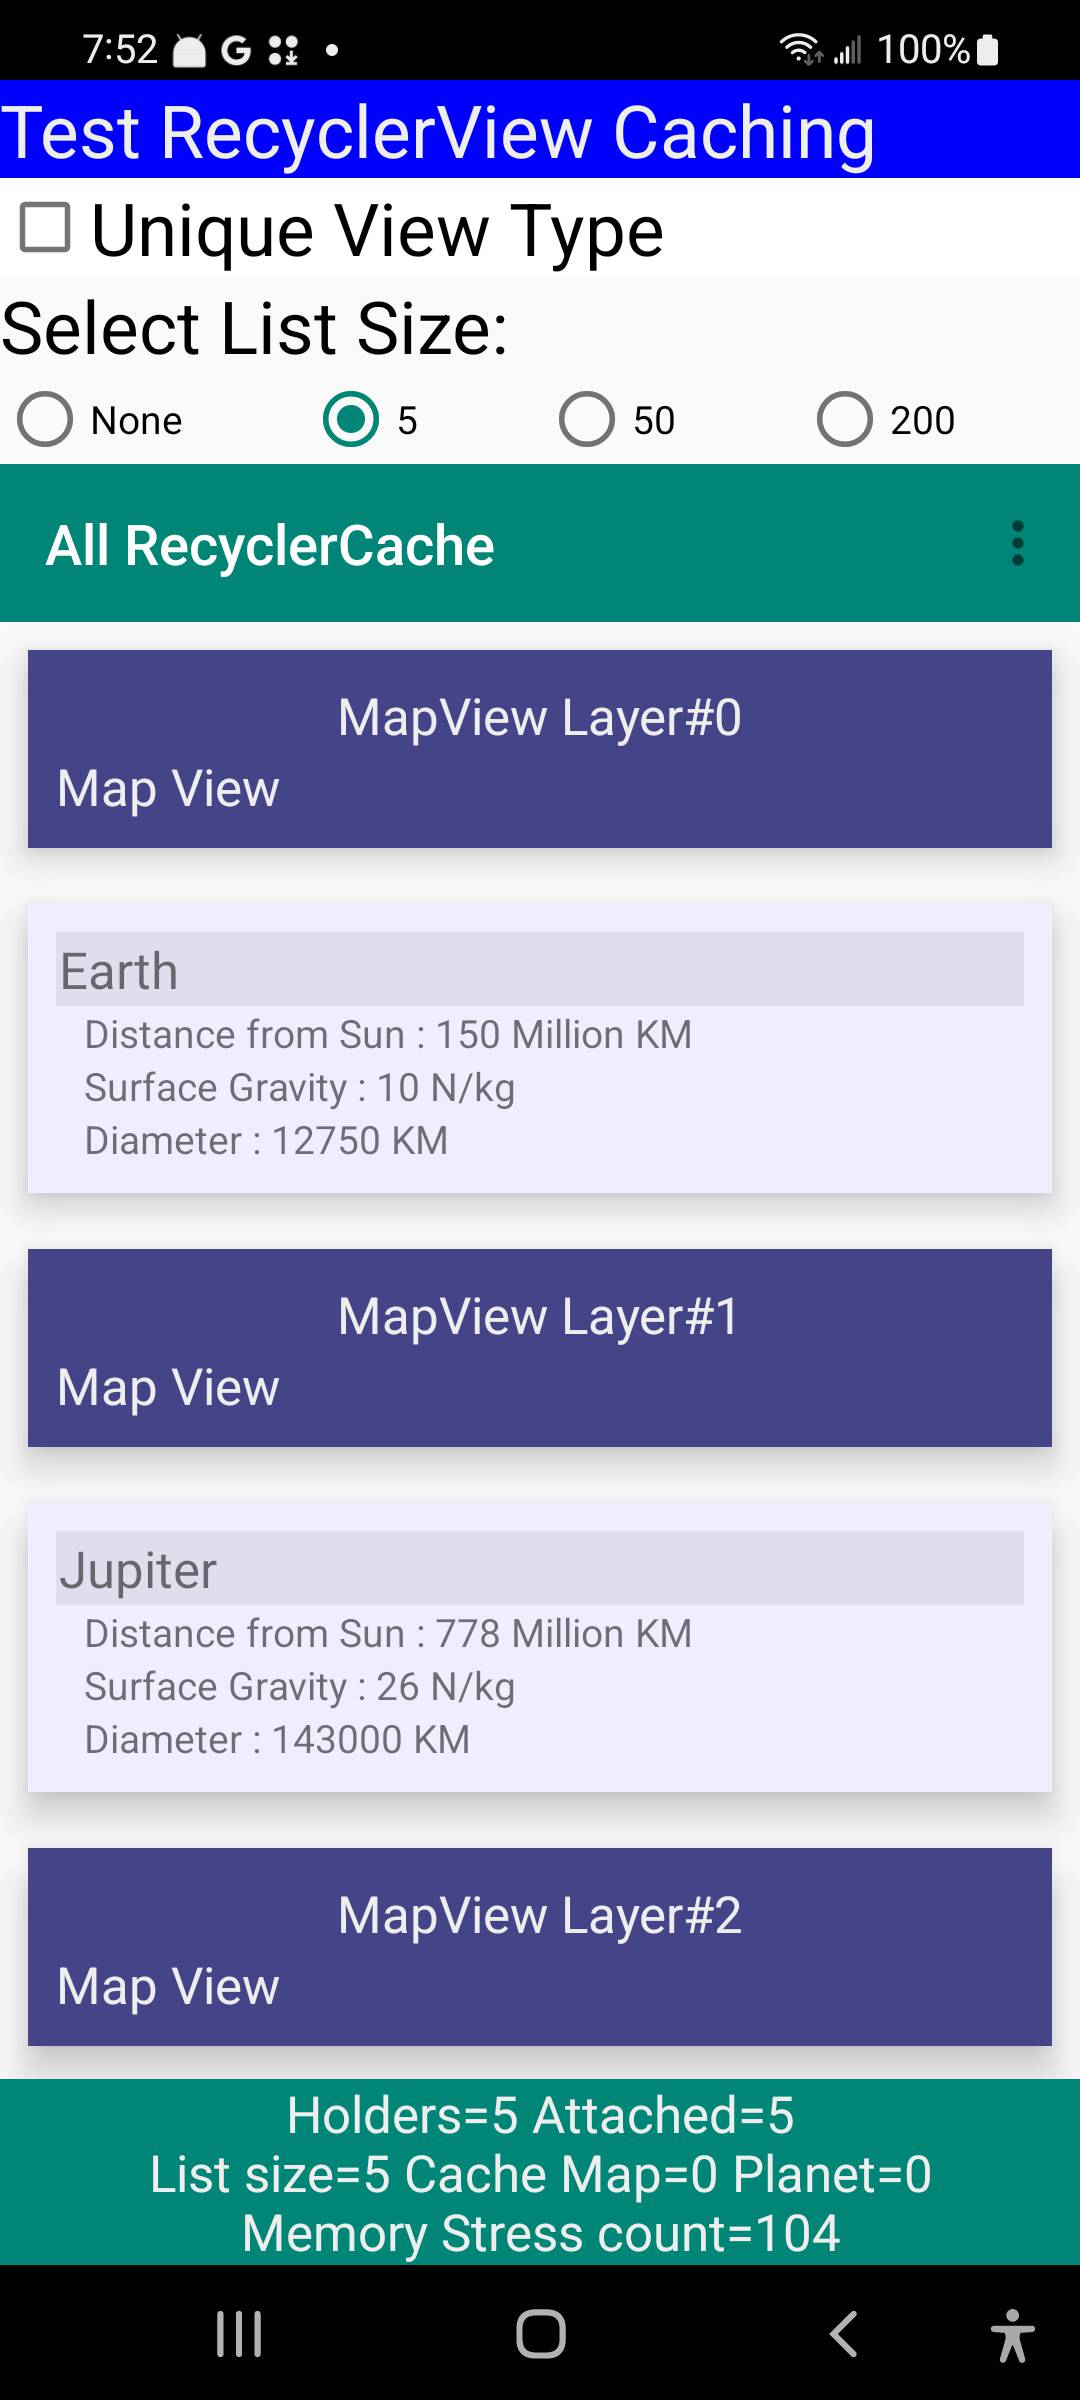
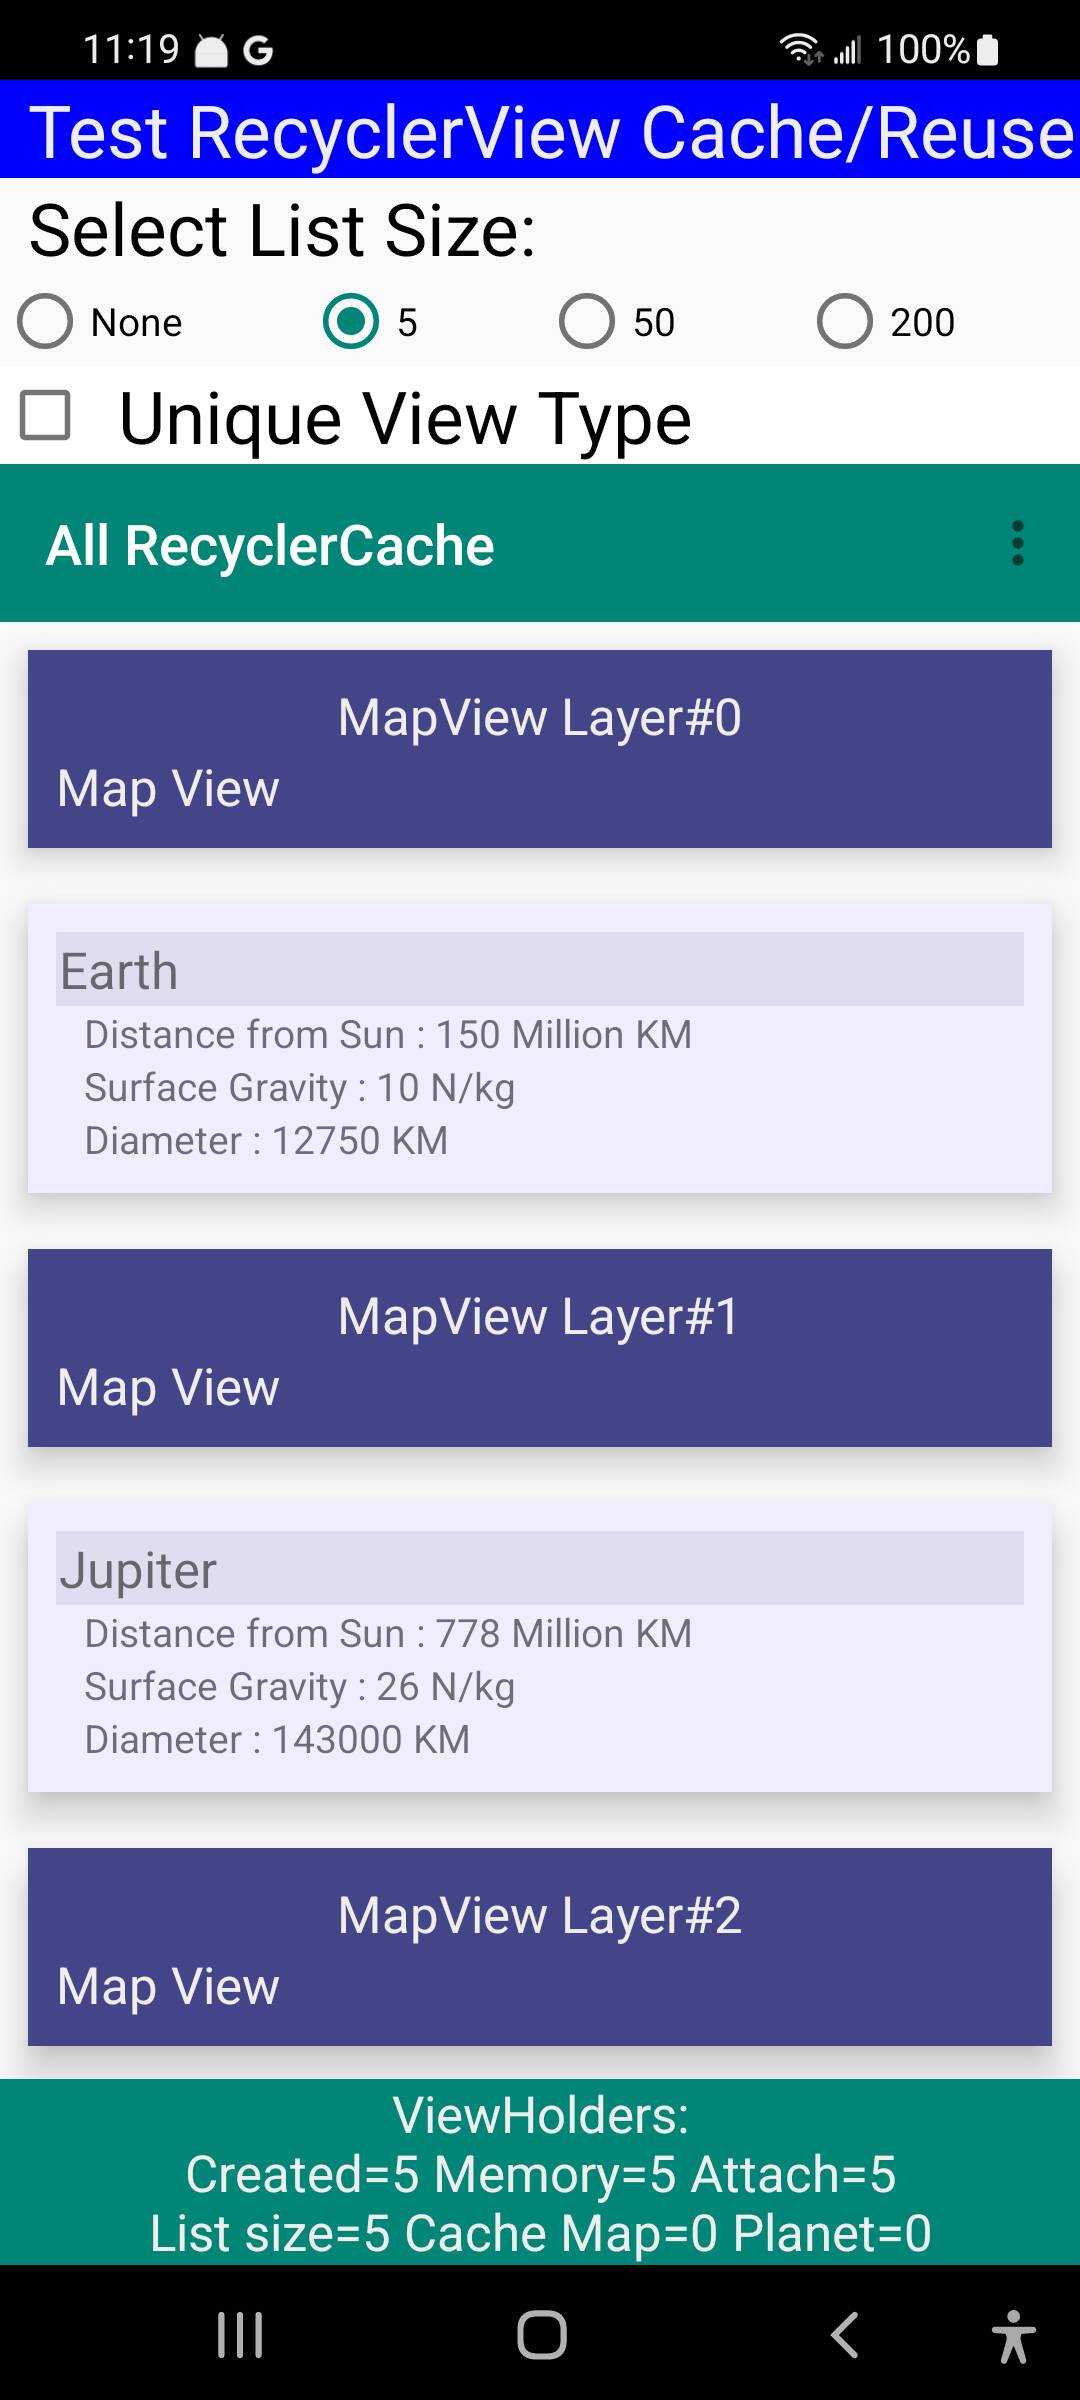
update readme

diff --git a/README.md b/README.md
@@ -30,8 +30,9 @@ Changing the list size causes a new list to be created, adapter to be rebuilt an
 the RecyclerView and <b>java garbage collector</b> to be called. 
 
 Status is displayed at the bottom of screen under the RecyclerView
-- Holders = Number of <b>ViewHolder</b> instances active in memory (in view or cached)
-- Attached = Number of <b>ViewHolders</b> currently attached to screen (in view).
+- Created = Number of <b>ViewHolder</b> instances created (called constructor)
+- Memory = Number of <b>ViewHolder</b> instances active in memory (in view or cached)
+- Attach = Number of <b>ViewHolders</b> currently attached to screen (in view).
 - List size = Number of <b>items</b> in list passed to Adapter passed to RecyclerView
 - Cache Map/Planet - shows the number of items per <b>ViewType</b> in the RecyclerView pool cache. 
  The RecyclerView has two caches, this is only one of them. See [reference documents linked at the top.](#Some-related-articles)
@@ -45,10 +46,10 @@ some stress on the memory system.  Not sure if this makes any difference.
 Example shows ViewType set to card type for each of the two possible cards (Map or Planet), 
 allowing the <b>RecyclerView</b> to reuse <b>ViewHolders</b> which go out of view. 
 List is populated with 50 semi-random items of two types ("planets" and "map" cards)
-Status on the bottom shows the active view Holder count is 13 and 6 are attached to the view. 
-There are 5 cards in full view, one must be partially in view and the RecyclerView is caching 7 additional (5+1+7=13 active viewholders)
+Status on the bottom shows 20 ViewHolders created, 15 in memory and 6 attached to view.  
+There are 6 cards in full view and the RecyclerView is caching 8 additional (6+9=15 viewholders in memory)
 
-Values appear after selecting 50 items and scrolling through entire list.
+Values appear after selecting 50 items and scrolling through entire list a few times. 
 <img src="images/reuse-50.jpg" width="400" >
 
 <hr>
